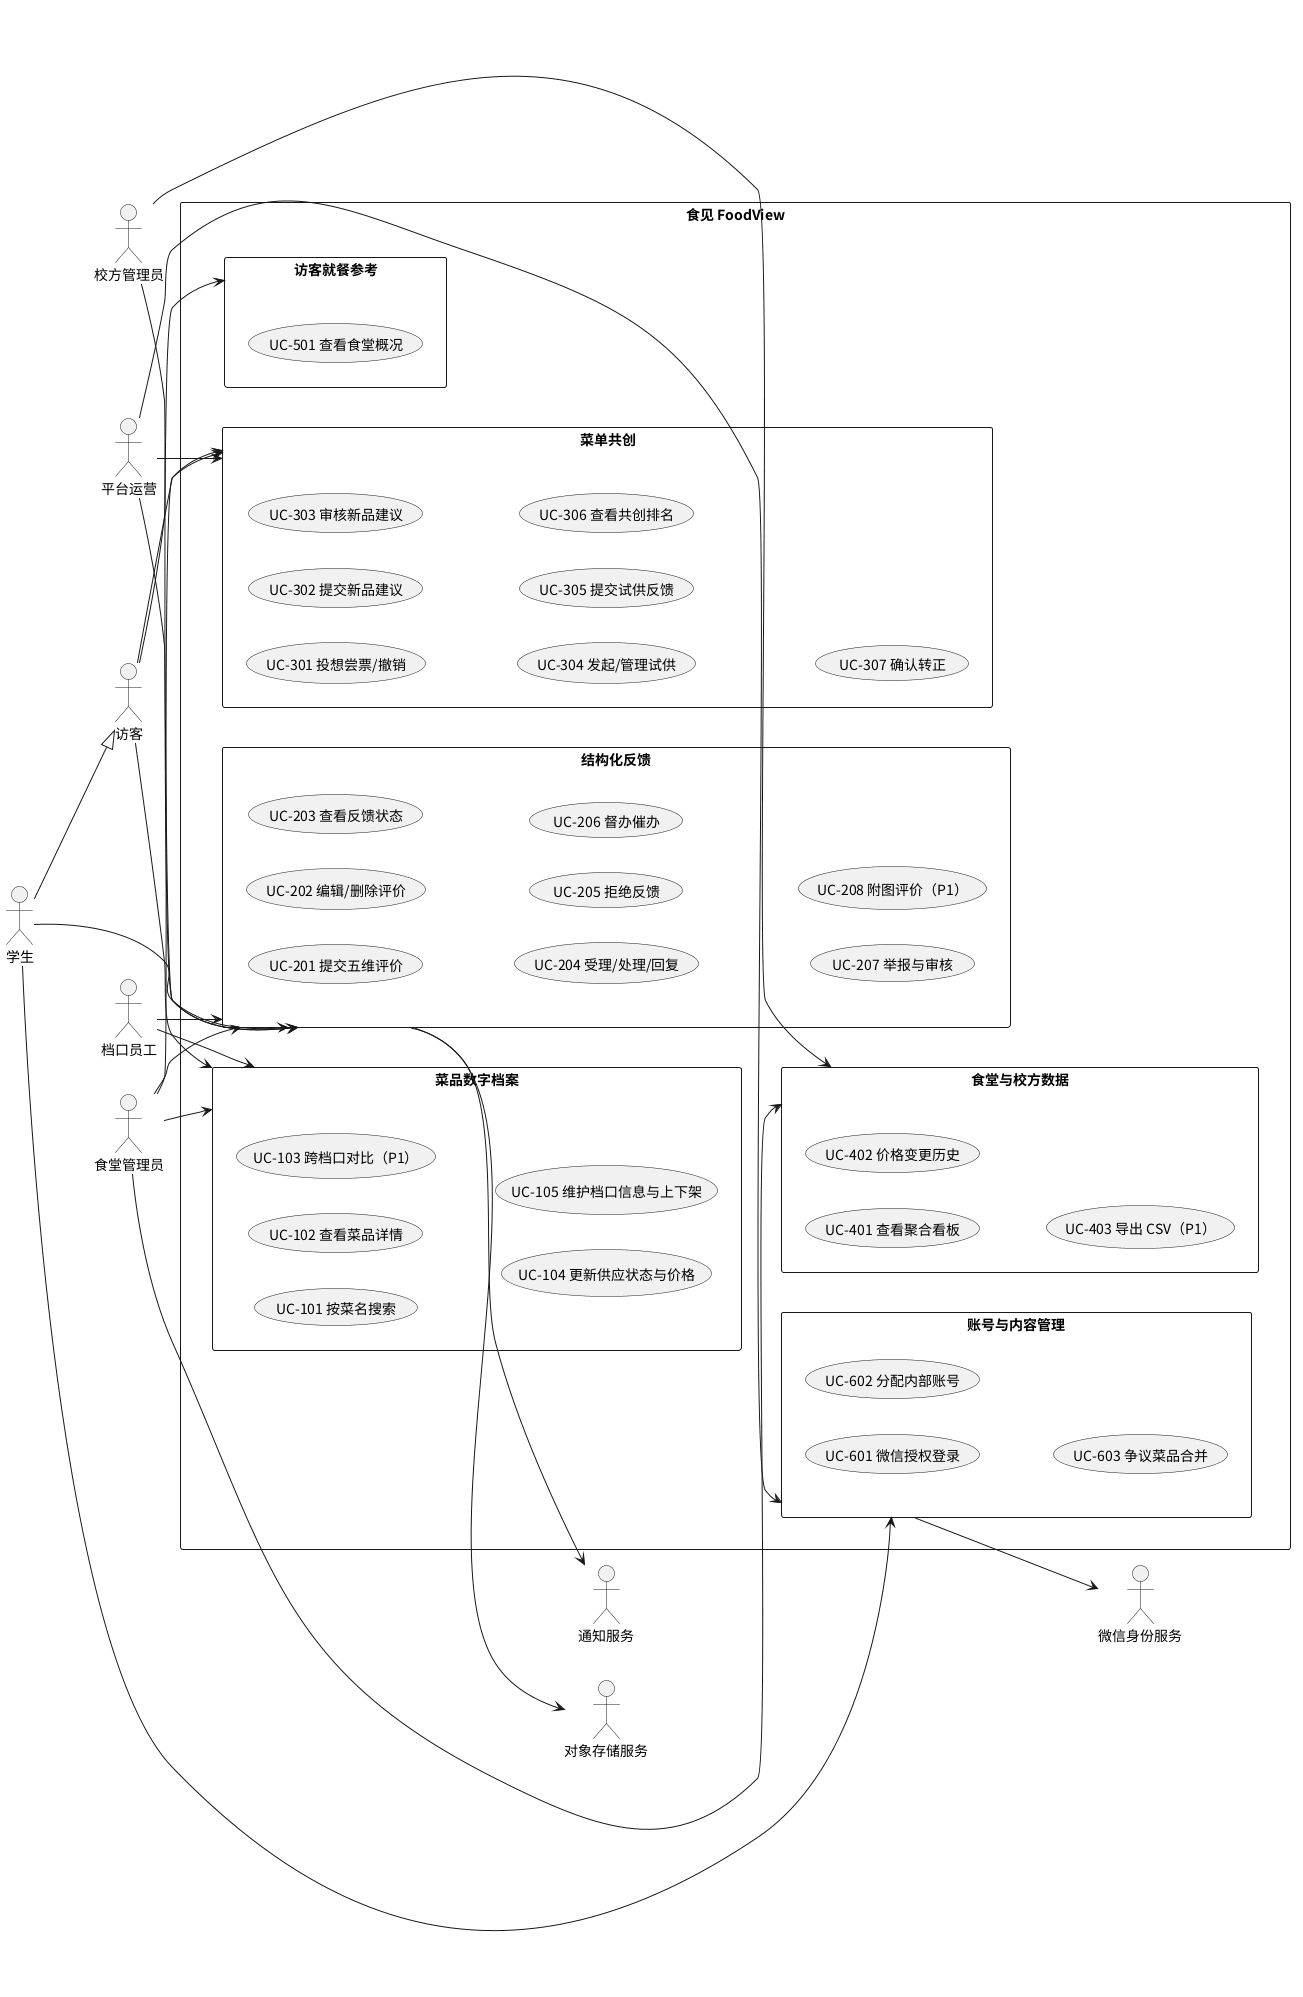
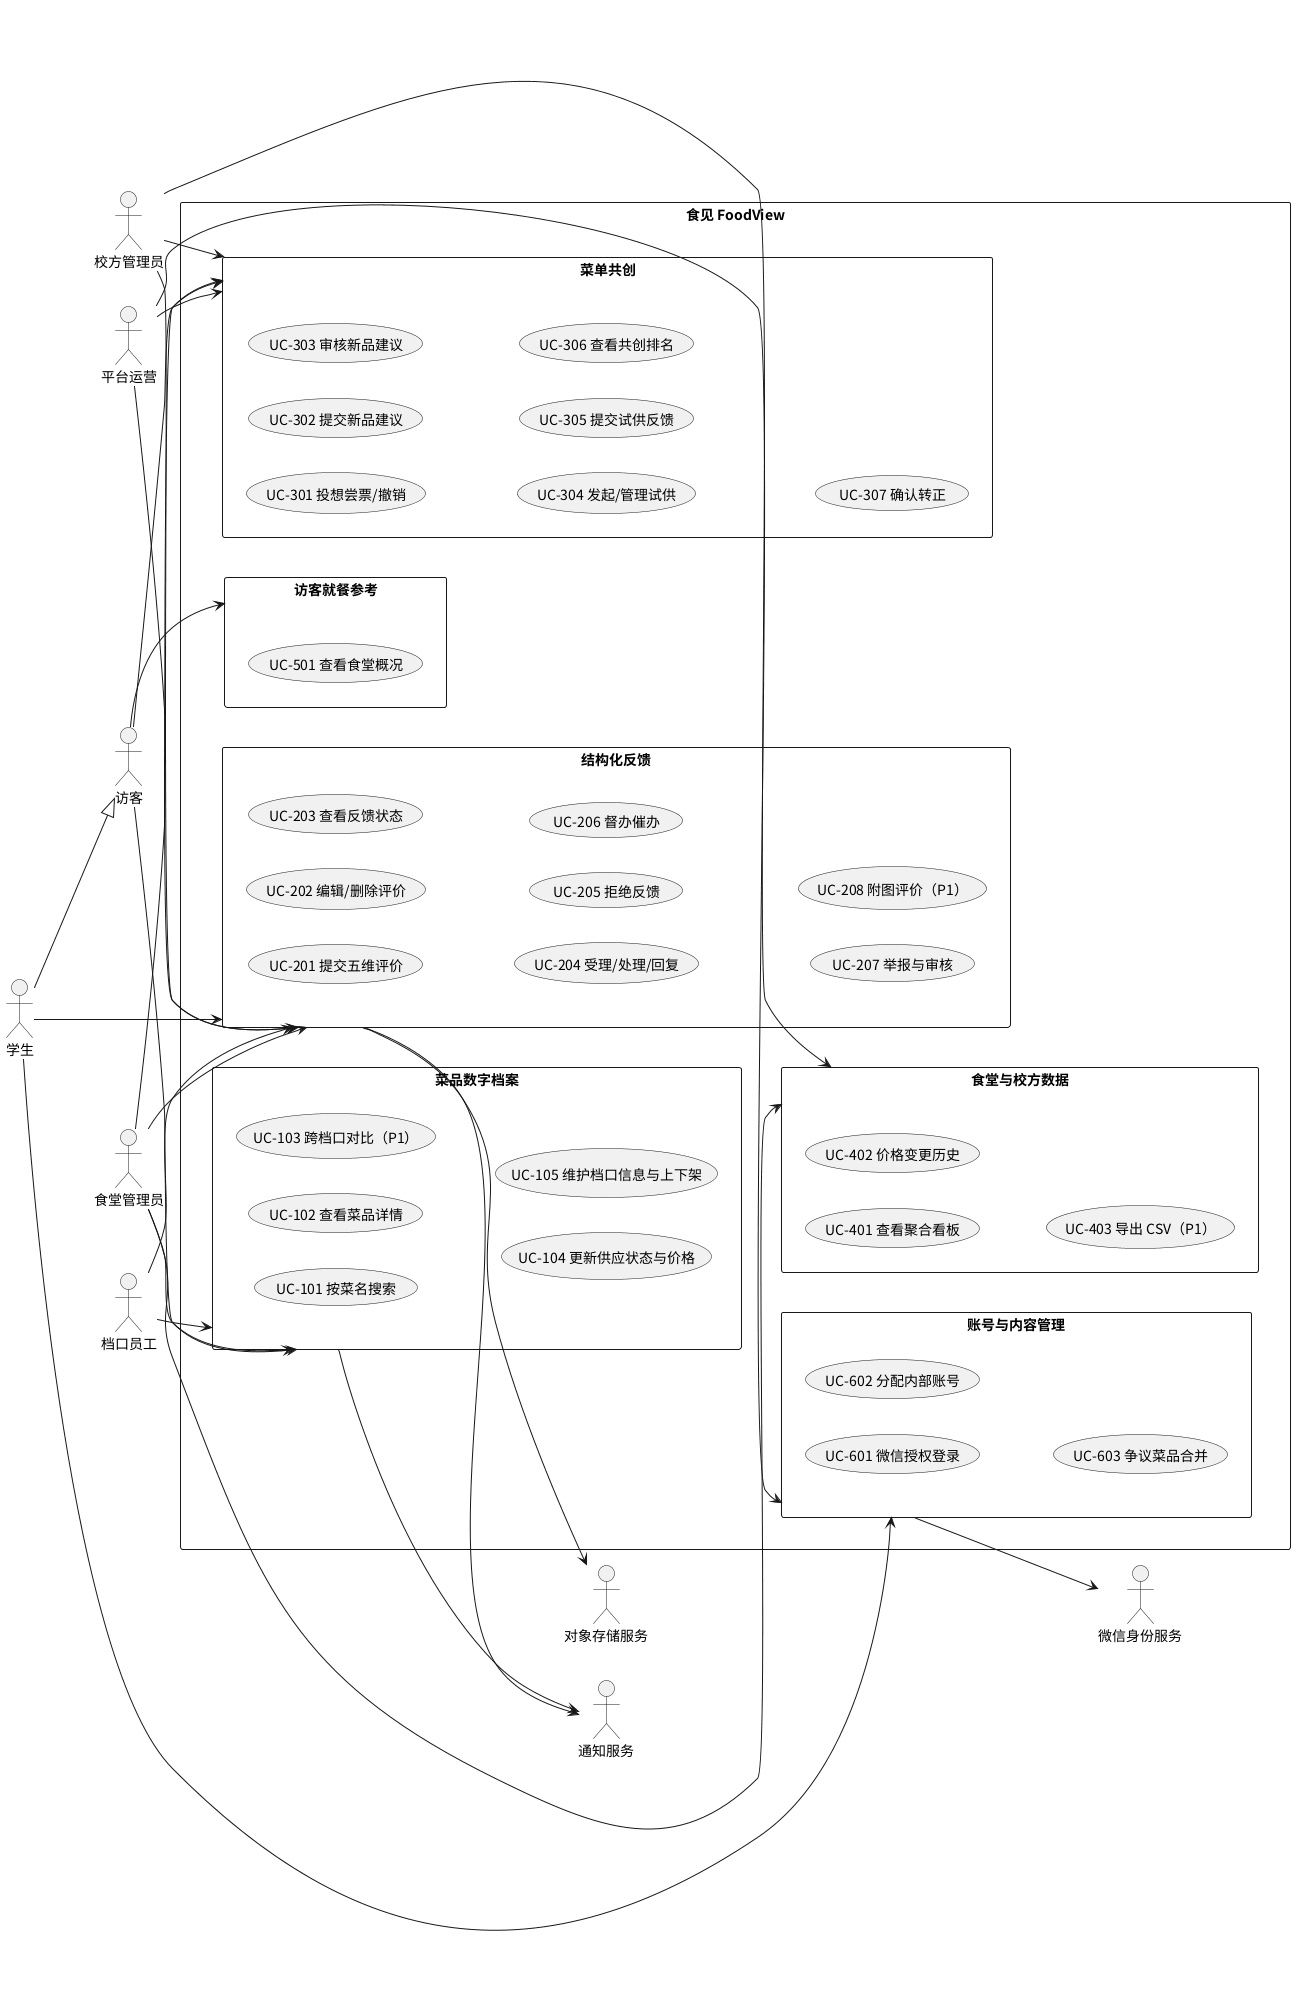
docs(srs): fix consistency issues and add NFR use cases
Fix undisputed inconsistencies found during the Issue #5 review of
SRS v0.1 without altering open discussion items:
- fix lowercase .puml links, FR-611 typo, and stale Q5 reference
- align uc-000/100/300 diagrams with specs and re-render PNGs
- clarify FR-101, sync 7-day auto-close to FR-214, align C4/NFR-508
- add UC-NFR-01/02 and Appendix C FR-to-UC traceability table

Refs #5

diff --git a/docs/SRS.md b/docs/SRS.md
@@ -3,8 +3,8 @@
 | 项目 | 内容 |
 | --- | --- |
 | 文档编号 | FV-SRS-001 |
-| 版本 | v0.1（草稿） |
-| 日期 | 2026-11-26 |
+| 版本 | v0.1.1（草稿） |
+| 日期 | 2026-11-27 |
 | 依据标准 | IEEE Std 830-1998 |
 | 状态 | 待评审 |
 
@@ -13,6 +13,7 @@
 | 版本 | 日期 | 说明 |
 | --- | --- | --- |
 | v0.1 | 2026-11-26 | 初稿，覆盖全部功能模块与非功能需求 |
+| v0.1.1 | 2026-11-27 | 修正链接大小写、编号笔误、文图一致性与状态闭环同步，补充非功能需求用例与附录 C 需求追踪表（对应 Issue #5） |
 
 ---
 
@@ -61,7 +62,7 @@
 
 ### 1.5 文档概述
 
-第 2 章给出产品的总体描述：前景、功能总表、用户特征、约束与假设。第 3 章给出具体需求：3.1 功能需求按六个模块组织，每个模块包含需求条目、用例图与用例规约（P0 用例为完整规约表，P1 用例为简表）；3.2 非功能需求；3.3 外部接口需求。附录 A 给出反馈状态机，附录 B 给出评分与问题类型数据字典。
+第 2 章给出产品的总体描述：前景、功能总表、用户特征、约束与假设。第 3 章给出具体需求：3.1 功能需求按六个模块组织，每个模块包含需求条目、用例图与用例规约（P0 用例为完整规约表，P1 用例为简表）；3.2 非功能需求（含关键非功能需求用例）；3.3 外部接口需求。附录 A 给出反馈状态机，附录 B 给出评分与问题类型数据字典，附录 C 给出需求与用例追踪表。
 
 图件约定：用例图与状态机图以 PNG 图片嵌入本文档；PlantUML 源文件位于 `docs/assets/srs/`，修改源文件后用 `plantuml -tpng` 重新渲染同名 PNG。
 
@@ -106,7 +107,7 @@
 - C1 双端发布：同一 uni-app 代码库编译到 H5 与微信小程序；小程序主包不超过 2MB。
 - C2 小程序真机访问要求 HTTPS 且域名已备案；开发期仅可在开发者工具中联调。
 - C3 数据库结构变更只能通过 Flyway 迁移脚本完成，已提交的迁移不允许修改。
-- C4 所有业务接口返回统一信封 `{code, message, data}`，HTTP 状态码保持其标准语义。
+- C4 所有业务接口返回统一信封 `{code, message, data}`，HTTP 状态码保持其标准语义；分页列表统一采用 `{records, total, page, size}` 结构。
 - C5 敏感凭据（数据库口令、密钥）不得进入代码仓库；本地开发口令除外。
 - C6 时区统一为 Asia/Shanghai，展示格式 `yyyy-MM-dd HH:mm:ss`。
 
@@ -123,7 +124,7 @@
 
 | 未决项 | 对需求的影响 |
 | --- | --- |
-| 鉴权框架选型（Sa-Token vs Spring Security + JWT） | 不影响 FR-601 的功能定义；影响内部实现 |
+| 鉴权框架选型（Sa-Token vs Spring Security + JWT） | 不影响 FR-611 的功能定义；影响内部实现 |
 | 对象存储与图片上传方案 | FR-218（附图评价）为 P1，待存储方案确定后实施 |
 | Redis 缓存 | 不影响需求；为满足 NFR-501 性能指标提供手段之一 |
 | API 文档与前端类型生成 | 不影响需求；交付形态未定 |
@@ -140,13 +141,13 @@
 
 ### 3.1 功能需求
 
-需求条目编号规则：FR-<模块号><序号>，与用例编号 UC-<模块号><序号> 一一对应。
+需求条目编号规则：`FR-<模块号><序号>`，用例编号规则：`UC-<模块号><序号>`；需求与用例允许存在一对多或多对一关系，完整映射见附录 C 追踪表。
 
 #### 3.1.0 用例总图
 
 ![用例总图](assets/srs/UC-000.png)
 
-*用例总图（源文件：[`assets/srs/UC-000.puml`](assets/srs/UC-000.puml)）*
+*用例总图（源文件：[`assets/srs/uc-000.puml`](assets/srs/uc-000.puml)）*
 
 > 总图中的连线是**模块级**的：参与者到模块包的连线仅表示该参与者参与该模块内至少一个用例（如访客对菜单共创仅参与 UC-306 查看排名）。精确到每个用例的主/次参与者见各模块图。图中 `学生 --|> 访客` 表示学生是访客的特化；次参与者（微信身份服务、通知服务、对象存储服务）画在右侧，均为系统级依赖，不是人。
 
@@ -154,11 +155,11 @@
 
 ![菜品数字档案用例图](assets/srs/UC-100.png)
 
-*菜品数字档案用例图（源文件：[`assets/srs/UC-100.puml`](assets/srs/UC-100.puml)）*
+*菜品数字档案用例图（源文件：[`assets/srs/uc-100.puml`](assets/srs/uc-100.puml)）*
 
 **需求条目**
 
-- FR-101（P0）按菜名搜索：输入菜名关键词，返回全校正在供应该菜（含在售、限时；不含售罄下架，售罄单独标注）的档口列表，含食堂、位置、当前价格、供应状态。
+- FR-101（P0）按菜名搜索：输入菜名关键词，返回全校供应该菜的档口列表（不含已下架菜品；在售、限时优先展示，当日售罄单独标注），含食堂、位置、当前价格、供应状态与五维评分摘要。
 - FR-102（P0）菜品详情：展示某档口某道菜的所属档口、当前价格、供应状态（在售/售罄/限时）、五维评分摘要、想尝票数、近期评价列表。
 - FR-103（P1）跨档口对比：同一菜品在多个档口间的价格与评分并排对比视图。
 - FR-104（P0）供应状态与价格维护：档口员工更新本档口菜品的供应状态与价格；"限时"必须填写起止时间，到期自动转售罄；每次价格变更写入价格历史。
@@ -220,14 +221,14 @@ UC-105 维护档口信息与菜品上下架
 
 ![结构化反馈用例图](assets/srs/UC-200.png)
 
-*结构化反馈用例图（源文件：[`assets/srs/UC-200.puml`](assets/srs/UC-200.puml)）*
+*结构化反馈用例图（源文件：[`assets/srs/uc-200.puml`](assets/srs/uc-200.puml)）*
 
 **需求条目**
 
 - FR-211（P0）五维评价：学生对某档口某菜提交评价，口味、价格、分量、供应、卫生各 1–5 星，全部必填；可附文字。
 - FR-212（P0）问题类型：评价时可多选问题类型（异物、分量不足、价格异常、排队过长、卫生、其他）；带问题类型的评价自动生成一条问题条目，进入处理流程。
 - FR-213（P0）评价唯一性与可变性：同一学生对同一档口同一菜品同一天仅一条评价；作者可编辑（编辑后标"已修改"）或删除自己的评价。
-- FR-214（P0）处理闭环：问题条目状态为 待受理→已受理→处理中→已回复→已关闭，另有已拒绝（见附录 A）；学生可随时在原评价处查看状态变化，处理结果回复在同一条目上。
+- FR-214（P0）处理闭环：问题条目状态为 待受理→已受理→处理中→已回复→已关闭，另有已拒绝（见附录 A）；回复后经学生确认或满 7 天自动关闭；学生可随时在原评价处查看状态变化，处理结果回复在同一条目上。
 - FR-215（P0）拒绝：食堂管理员可拒绝问题条目，必须填写理由，学生可见理由。
 - FR-216（P0）督办：校方管理员可对超时未受理/未处理的问题条目标记督办，系统通知对应食堂管理员；校方不能修改处理结果。
 - FR-217（P0）内容安全：评价文字先发后审；任何登录学生可举报评价；平台运营审核举报并可下架违规评价（下架对作者提示"内容被移除"）。昵称展示，不显示真实姓名。
@@ -315,7 +316,7 @@ UC-207 举报与内容审核
 
 ![菜单共创用例图](assets/srs/UC-300.png)
 
-*菜单共创用例图（源文件：[`assets/srs/UC-300.puml`](assets/srs/UC-300.puml)）*
+*菜单共创用例图（源文件：[`assets/srs/uc-300.puml`](assets/srs/uc-300.puml)）*
 
 **需求条目**
 
@@ -408,7 +409,7 @@ UC-307 确认转正
 
 ![食堂与校方数据用例图](assets/srs/UC-400.png)
 
-*食堂与校方数据用例图（源文件：[`assets/srs/UC-400.puml`](assets/srs/UC-400.puml)）*
+*食堂与校方数据用例图（源文件：[`assets/srs/uc-400.puml`](assets/srs/uc-400.puml)）*
 
 **需求条目**
 
@@ -450,12 +451,12 @@ UC-402 查看价格变更历史
 
 ![访客就餐参考用例图](assets/srs/UC-500.png)
 
-*访客就餐参考用例图（源文件：[`assets/srs/UC-500.puml`](assets/srs/UC-500.puml)）*
+*访客就餐参考用例图（源文件：[`assets/srs/uc-500.puml`](assets/srs/uc-500.puml)）*
 
 **需求条目**
 
 - FR-511（P0）食堂概况：面向所有人的食堂列表与详情：位置、开放时间、价格区间、菜品分布（各价格带/各品类数量）。免注册、免登录。
-- FR-512（P0）公开只读：访客可读全部公开内容（含评价摘要、排名、反馈统计），交互型用例（评价、投票、提建议、试供反馈）才要求登录（见 Q5 决策：访客与学生共享查询用例）。
+- FR-512（P0）公开只读：访客可读全部公开内容（含评价摘要、排名、反馈统计），交互型用例（评价、投票、提建议、试供反馈）才要求登录（访客与学生共享只读查询用例）。
 
 **P0 用例规约**
 
@@ -474,7 +475,7 @@ UC-501 查看食堂概况
 
 ![账号与内容管理用例图](assets/srs/UC-600.png)
 
-*账号与内容管理用例图（源文件：[`assets/srs/UC-600.puml`](assets/srs/UC-600.puml)）*
+*账号与内容管理用例图（源文件：[`assets/srs/uc-600.puml`](assets/srs/uc-600.puml)）*
 
 **需求条目**
 
@@ -529,8 +530,26 @@ UC-603 争议菜品记录合并
 | NFR-505 | 安全性 | 全链路 HTTPS（生产）；接口按 FR-613 边界鉴权，越权返回 403；用户输入经服务端校验与转义，防注入与 XSS；凭据不入库（C5） |
 | NFR-506 | 隐私 | 评价与反馈仅展示昵称；学生身份标识不对其他学生与档口可见；校方看到的统计为聚合数据 |
 | NFR-507 | 可用性 | 布局使用 rpx 适配小屏；交互失败均有明确提示文案；空态有引导 |
-| NFR-508 | 可维护性 | 遵循仓库 CI 与工程约定：提交须通过后端编译、前端 type-check 与 build；数据库结构变更仅经 Flyway 迁移 |
+| NFR-508 | 可维护性 | 遵循仓库 CI 与工程约定：提交须通过后端编译与验证（`./mvnw -B verify`）、前端 `type-check`、`build:h5` 与 `build:mp-weixin`；数据库结构变更仅经 Flyway 迁移 |
 | NFR-509 | 可靠性 | 服务单实例部署下年度可用性目标 ≥ 99%（不含计划内维护）；数据变更操作幂等或失败可重试，不产生脏数据 |
+
+**非功能需求用例**
+
+UC-NFR-01 高峰期核心查询性能验证（对应 NFR-501、NFR-502）
+
+| 项目 | 内容 |
+| --- | --- |
+| 触发场景 | 午晚餐高峰期并发访问按菜名搜索（UC-101）、菜品详情（UC-102）与聚合看板（UC-401） |
+| 约束目标 | 模拟 100 QPS 持续请求下，核心查询接口 P95 响应时间 ≤ 500ms，错误率 = 0；常规网络下页面首屏可交互时间 ≤ 2s |
+| 验证方式 | 使用压测工具（如 k6 / JMeter）对目标查询接口施加 100 QPS 负载并采集 P95 延迟；使用浏览器 Lighthouse / DevTools 测量 H5 首屏可交互时间 |
+
+UC-NFR-02 多角色权限隔离与隐私脱敏验证（对应 NFR-505、NFR-506、FR-613）
+
+| 项目 | 内容 |
+| --- | --- |
+| 触发场景 | 未登录访客尝试调用交互接口；档口员工越权修改其他档口菜品/反馈；食堂管理员越权查询其他食堂看板；校方管理员尝试修改反馈处理结果 |
+| 约束目标 | 未登录调用受保护接口返回 HTTP 401；越权操作一律拦截并返回 HTTP 403 且不产生数据变更；公开评价与统计接口响应中仅含昵称或聚合数据，不泄露学生真实身份标识 |
+| 验证方式 | 编写后端集成测试覆盖上述 6 类角色边界与未登录场景，校验 HTTP 状态码、统一响应信封与响应体脱敏字段 |
 
 ### 3.3 外部接口需求
 
@@ -574,3 +593,37 @@ UC-603 争议菜品记录合并
 | 其他 | 以上未覆盖的问题，须在文字中说明 |
 
 优先级汇总：P0 共 24 条功能需求条目（FR-101/102/104/105、211–217、321–325、431/432、511/512、611–614）；P1 共 3 条（FR-103、218、433），可在评审后顺延至下一迭代。
+
+## 附录 C 需求与用例追踪表
+
+| 模块 | 需求条目 | 优先级 | 对应用例 |
+| --- | --- | --- | --- |
+| 菜品数字档案 | FR-101 按菜名搜索 | P0 | UC-101 |
+| 菜品数字档案 | FR-102 菜品详情 | P0 | UC-102 |
+| 菜品数字档案 | FR-103 跨档口对比 | P1 | UC-103 |
+| 菜品数字档案 | FR-104 供应状态与价格维护 | P0 | UC-104 |
+| 菜品数字档案 | FR-105 档口信息与菜品上下架 | P0 | UC-105 |
+| 结构化反馈 | FR-211 五维评价 | P0 | UC-201 |
+| 结构化反馈 | FR-212 问题类型 | P0 | UC-201 |
+| 结构化反馈 | FR-213 评价唯一性与可变性 | P0 | UC-201、UC-202a、UC-202b |
+| 结构化反馈 | FR-214 处理闭环 | P0 | UC-203、UC-204 |
+| 结构化反馈 | FR-215 拒绝 | P0 | UC-205 |
+| 结构化反馈 | FR-216 督办 | P0 | UC-206 |
+| 结构化反馈 | FR-217 内容安全 | P0 | UC-207 |
+| 结构化反馈 | FR-218 附图评价 | P1 | UC-208 |
+| 菜单共创 | FR-321 想尝票 | P0 | UC-301 |
+| 菜单共创 | FR-322 新品建议 | P0 | UC-302、UC-303 |
+| 菜单共创 | FR-323 试供 | P0 | UC-304、UC-305 |
+| 菜单共创 | FR-324 排名 | P0 | UC-306 |
+| 菜单共创 | FR-325 转正 | P0 | UC-307 |
+| 食堂与校方数据 | FR-431 聚合看板 | P0 | UC-401 |
+| 食堂与校方数据 | FR-432 价格变更历史 | P0 | UC-402 |
+| 食堂与校方数据 | FR-433 CSV 导出 | P1 | UC-403 |
+| 访客就餐参考 | FR-511 食堂概况 | P0 | UC-501 |
+| 访客就餐参考 | FR-512 公开只读 | P0 | UC-501、UC-101、UC-102、UC-103、UC-306 |
+| 账号与内容管理 | FR-611 微信授权登录 | P0 | UC-601 |
+| 账号与内容管理 | FR-612 内部账号 | P0 | UC-602 |
+| 账号与内容管理 | FR-613 权限边界 | P0 | UC-104、UC-105、UC-204~206、UC-401、UC-602、UC-NFR-02 |
+| 账号与内容管理 | FR-614 争议菜品合并 | P0 | UC-603 |
+| 非功能需求 | NFR-501、NFR-502 性能与容量 | P0 | UC-NFR-01 |
+| 非功能需求 | NFR-505、NFR-506 安全与隐私 | P0 | UC-NFR-02 |
